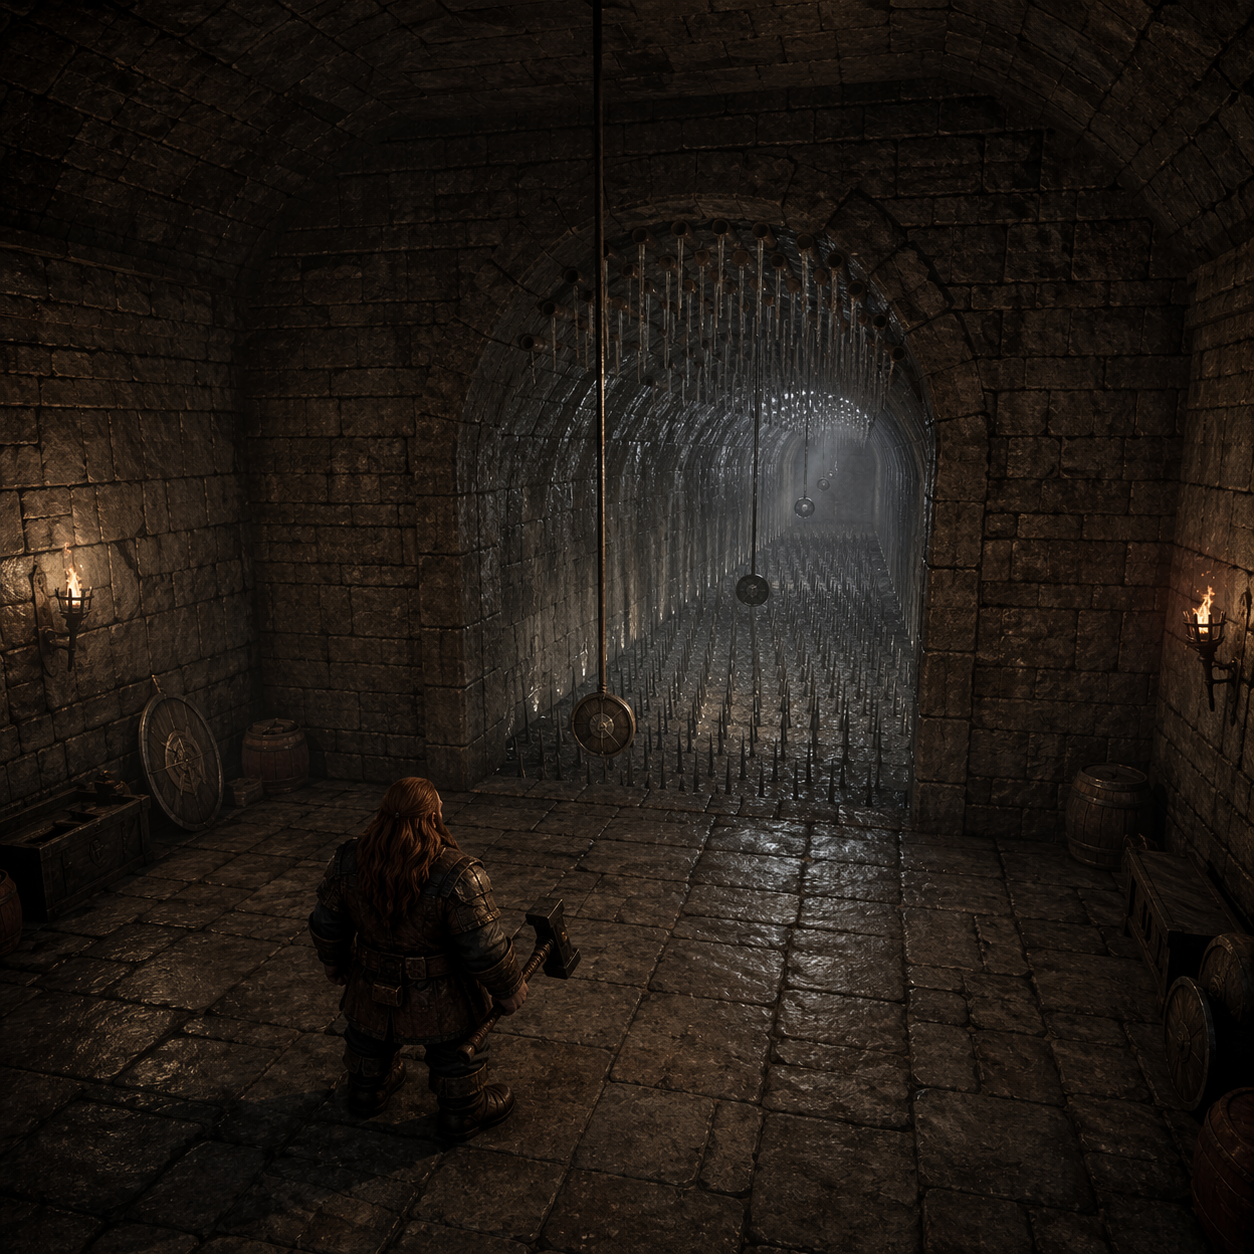
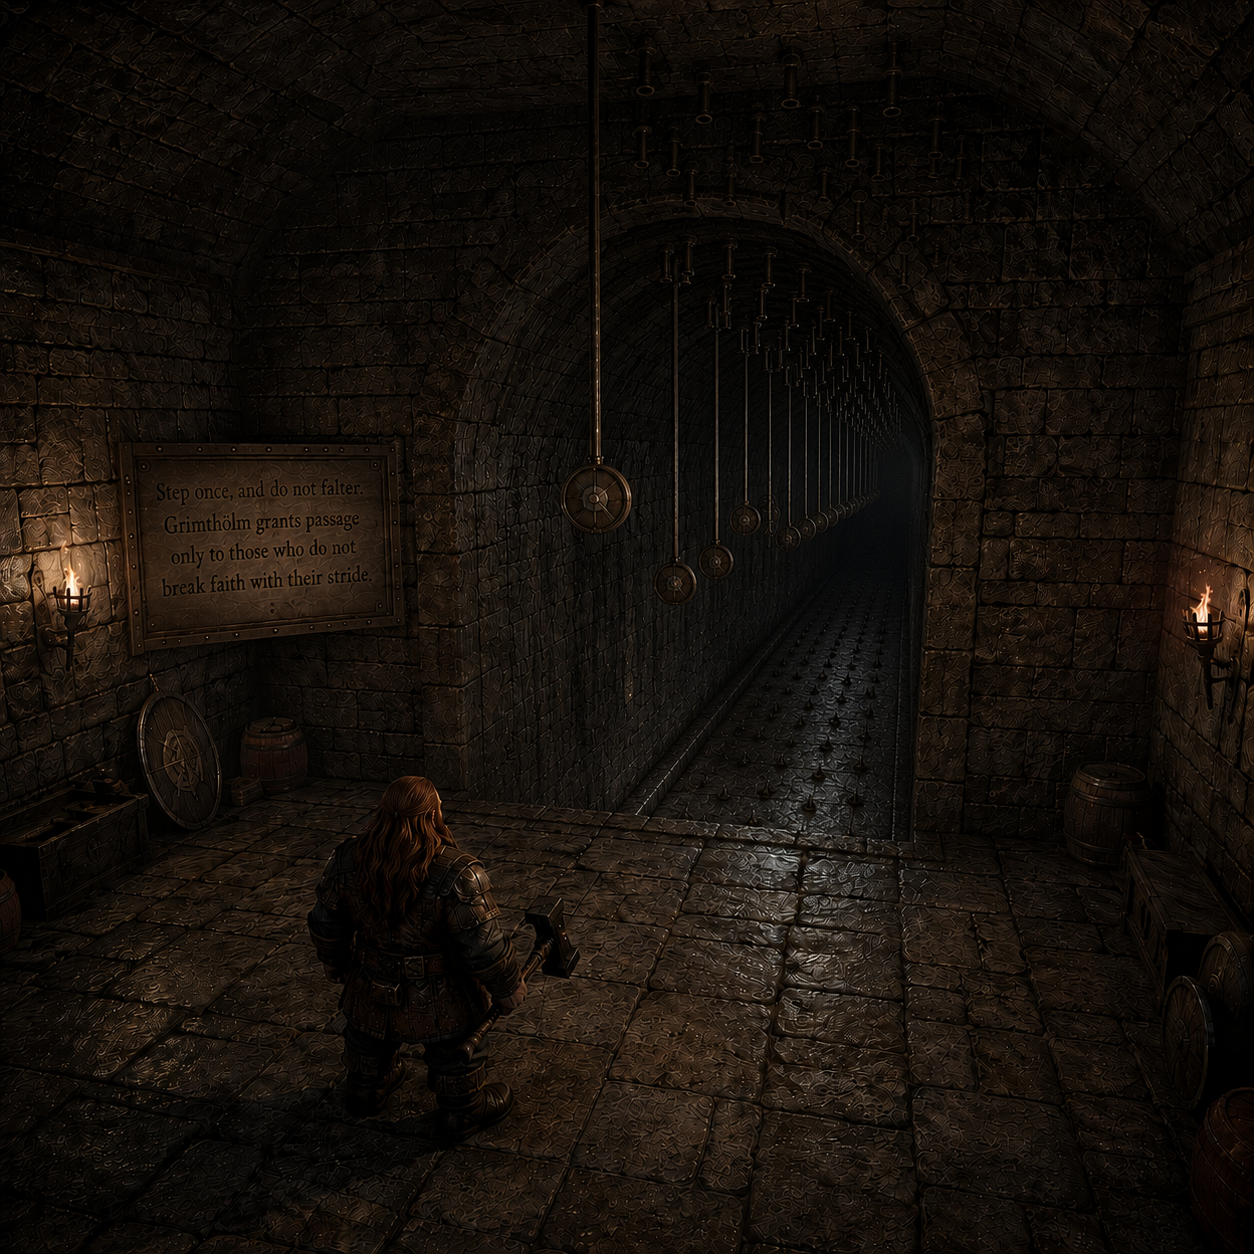
Added 100' to Steadfast description & Enhanced the image.

diff --git a/Forgotten Realms/Yawning Portal/The Lost Tomb of the Dwarven Prince/encounters/Path of the Anvil/Dwarven Challenge.md b/Forgotten Realms/Yawning Portal/The Lost Tomb of the Dwarven Prince/encounters/Path of the Anvil/Dwarven Challenge.md
@@ -28,8 +28,9 @@ passage only to those who do not break faith with their stride."
 > they will sink to the bottom, and then fall over onto the spikes and take
 > d2 damage if they fail vs. wand.
 >
-> If they do not activate the Grimthölm and try to cross the greased floor,
-> they must roll d20 + 12 (or 20) <= DEX or fall, for every 5 feet crossed.
+> If they do not activate the Grimthölm and try to cross the 100 foot 
+> greased floor, they must roll d20 + 12 (or 20) <= DEX or fall, for every
+> 5 feet crossed.
 
 
 # The Burden of Stone